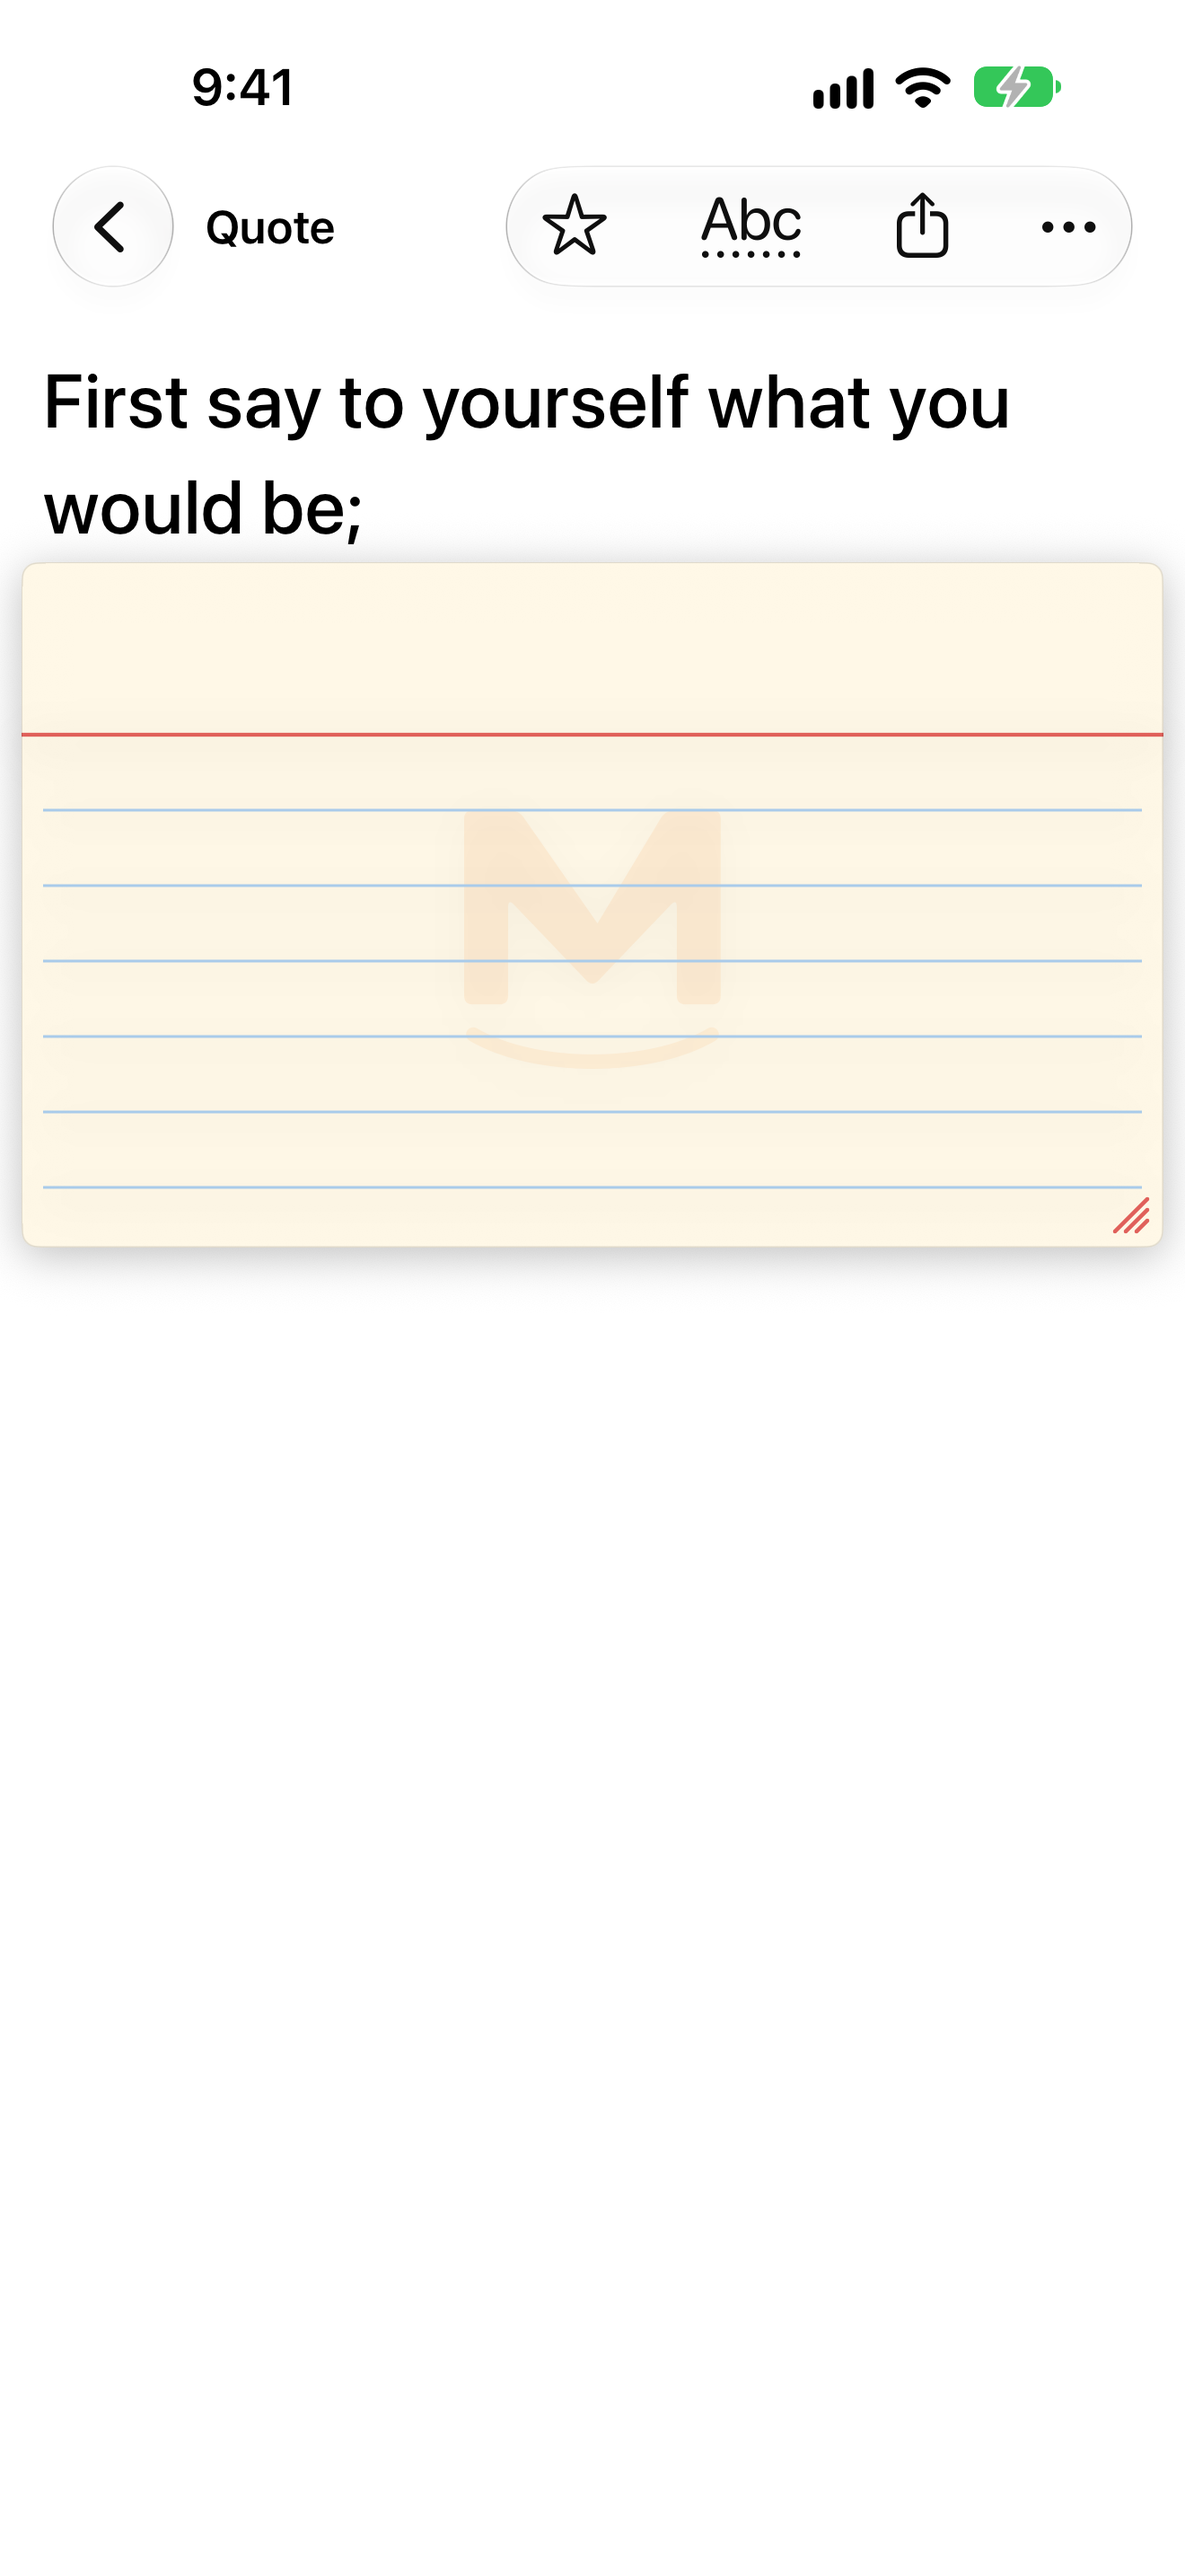
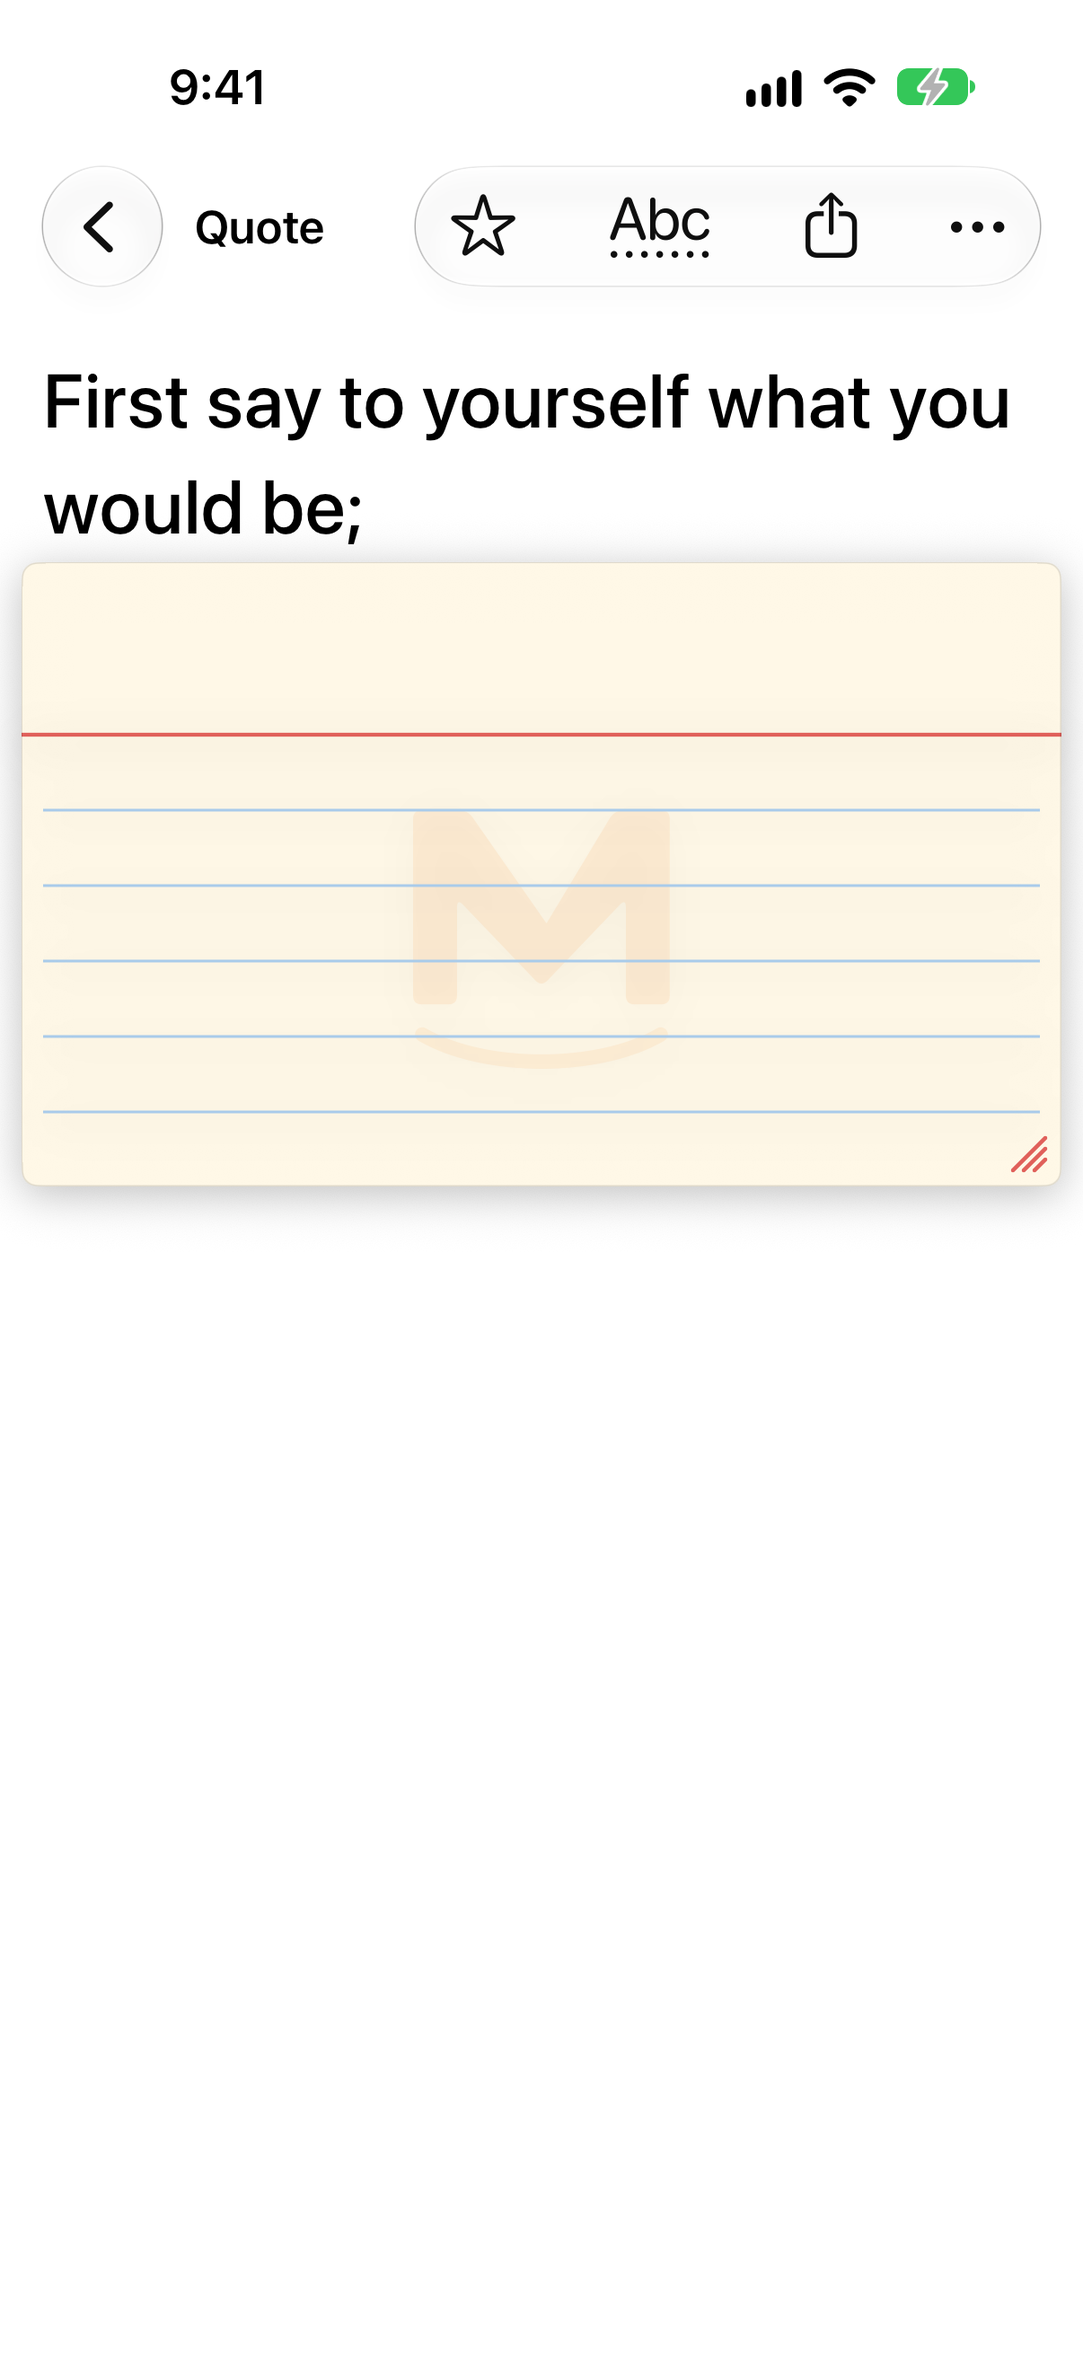
Header images and updated iPhone screenshots (#25)
* Updated screenshots for iPhone

* Header images

* Updated screenshots

diff --git a/index.html b/index.html
@@ -14,6 +14,7 @@
 <nav><a href="quotes.html">Quotes</a><a href="support.html">Support</a><a href="privacy.html">Privacy</a></nav>
 </header>
 <main>
+<figure class="shot"><img src="screenshots/web/header/header-1200x514.png" alt="Mezmorize: five reviews, one year." width="1200" height="514" decoding="async"></figure>
 <h1>Mezmorize</h1>
 <p class="lead">A native app for Mac, iPhone, and iPad, with an Apple Watch companion, that helps you remember quotable quotes using the Three-minute Memory Method.</p>
 
@@ -80,7 +81,7 @@
 <figure><picture><source media="(prefers-color-scheme: dark)" srcset="screenshots/web/iphone/08-todays-review-dark.png"><img src="screenshots/web/iphone/02-todays-review.png" alt="Today&rsquo;s Review on iPhone, listing one overdue quote and three due today, with a button to add a quote." loading="lazy" decoding="async" width="460" height="1000"></picture><figcaption>Today&rsquo;s Review: quotes due today and any overdue.</figcaption></figure>
 <figure><img src="screenshots/web/iphone/03-quote-detail.png" alt="A quote on iPhone with the review bar at the bottom: a progress ring, the review name, a Due Today badge, and a button to mark it reviewed." loading="lazy" decoding="async" width="460" height="1000"><figcaption>Check the review bar, then Mark Reviewed.</figcaption></figure>
 <figure><img src="screenshots/web/iphone/04-study-mode.png" alt="Study Mode on iPhone: the Epictetus quote with its first phrase visible above a lined 3x5 index card that hides the rest." loading="lazy" decoding="async" width="460" height="1000"><figcaption>Study Mode: a 3&times;5 card hides the rest of the quote.</figcaption></figure>
-<figure><img src="screenshots/web/iphone/06-search.png" alt="Searching for an author on iPhone, with matching quotes listed above the keyboard." loading="lazy" decoding="async" width="460" height="1000"><figcaption>Search by text or author.</figcaption></figure>
+<figure><img src="screenshots/web/iphone/06-search.png" alt="Searching for an author on iPhone, with matching quotes listed above the search field." loading="lazy" decoding="async" width="460" height="1000"><figcaption>Search by text or author.</figcaption></figure>
 </div>
 </details>
 
